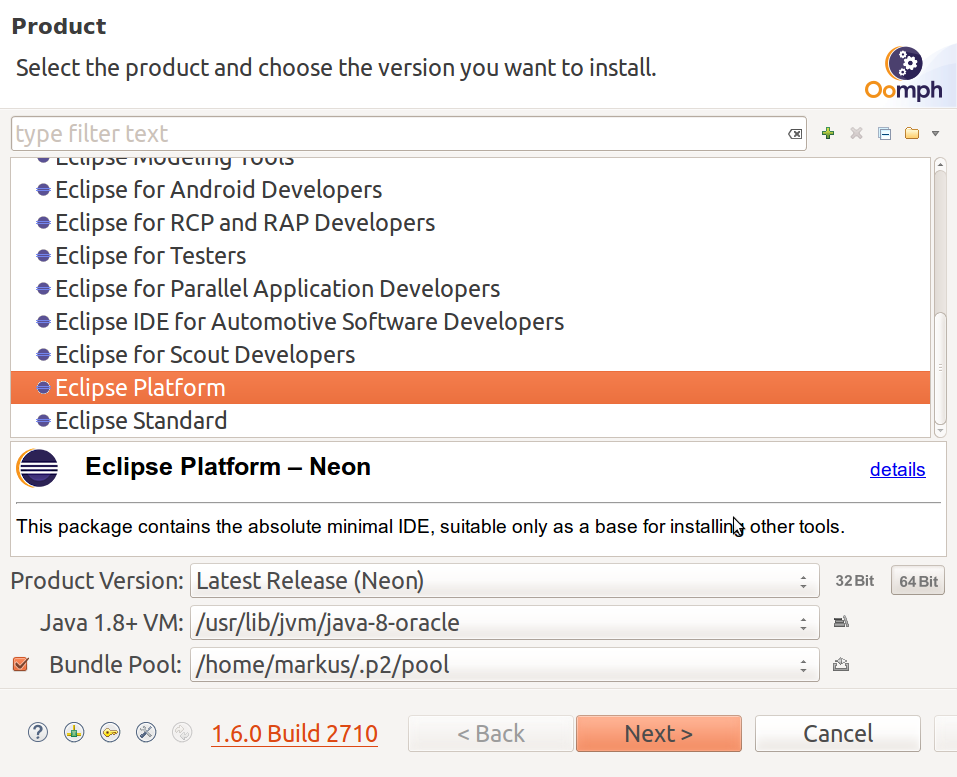
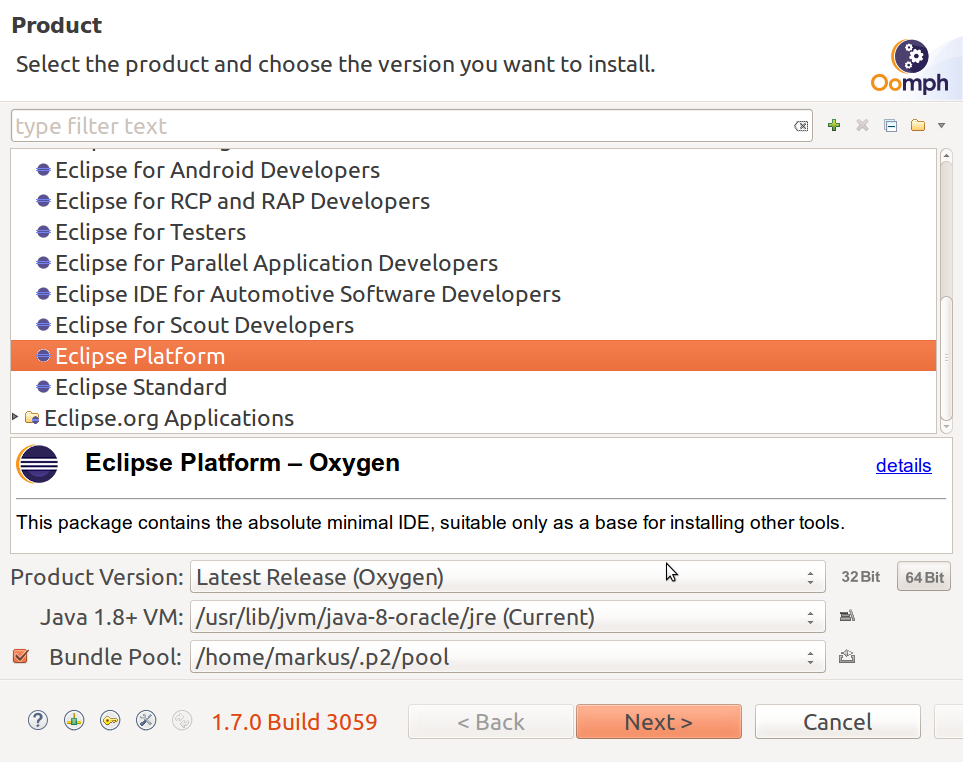
Update documentation for Oxygen.
[IDE][Documentation]

diff --git a/general/ide/README.md b/general/ide/README.md
@@ -7,7 +7,7 @@ Eclipse Oomph is a tool to simplify and automate the setup of Eclipse developmen
 2. Start the downloaded Oomph installer
 3. Switch to "Advanced Mode" by clicking the button in the right upper corner depicted with three horizontal lines
 4. Select "Eclipse Platform" on the Product list (expand "Eclipse.org" node)
-  1. Choose "Neon" as the product version at the bottom ![Chose Platform](https://raw.githubusercontent.com/lemmy/tlaplus/master/general/ide/images/00_PlatformSelection.png)
+  1. Choose "Oxygen" as the product version at the bottom ![Chose Platform](https://raw.githubusercontent.com/lemmy/tlaplus/master/general/ide/images/00_PlatformSelection.png)
 5. On the next screen, expand "Github Project" in the tree and select the check-box left to "TLA+" 
   1. Verify that "TLA+" shows up under "Project" at the bottom table and that the "Master" stream is selected ![Chose Project](https://raw.githubusercontent.com/lemmy/tlaplus/master/general/ide/images/01_ProjectSelection.png)
 6. On the next page, select whether to use anonymous Github access (read-only) from the "TLA+ Github Repository" dropdown list ![Chose anonymous access](https://raw.githubusercontent.com/lemmy/tlaplus/master/general/ide/images/02_Variables.png)
